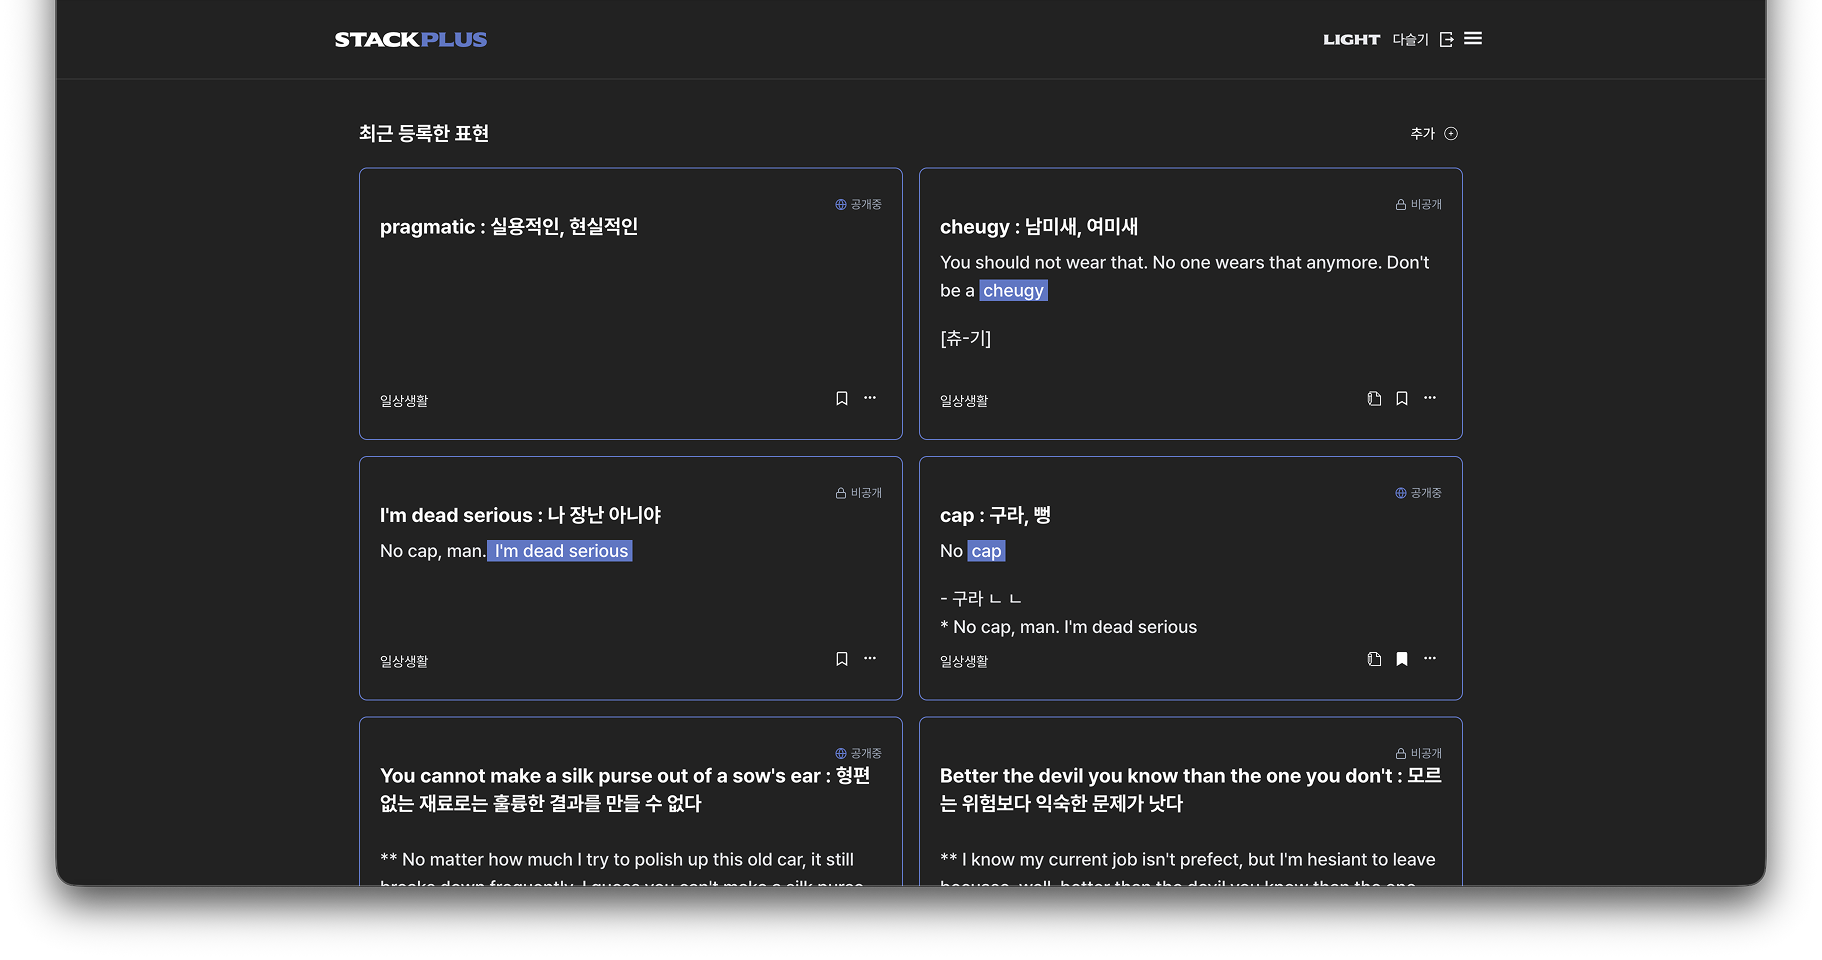
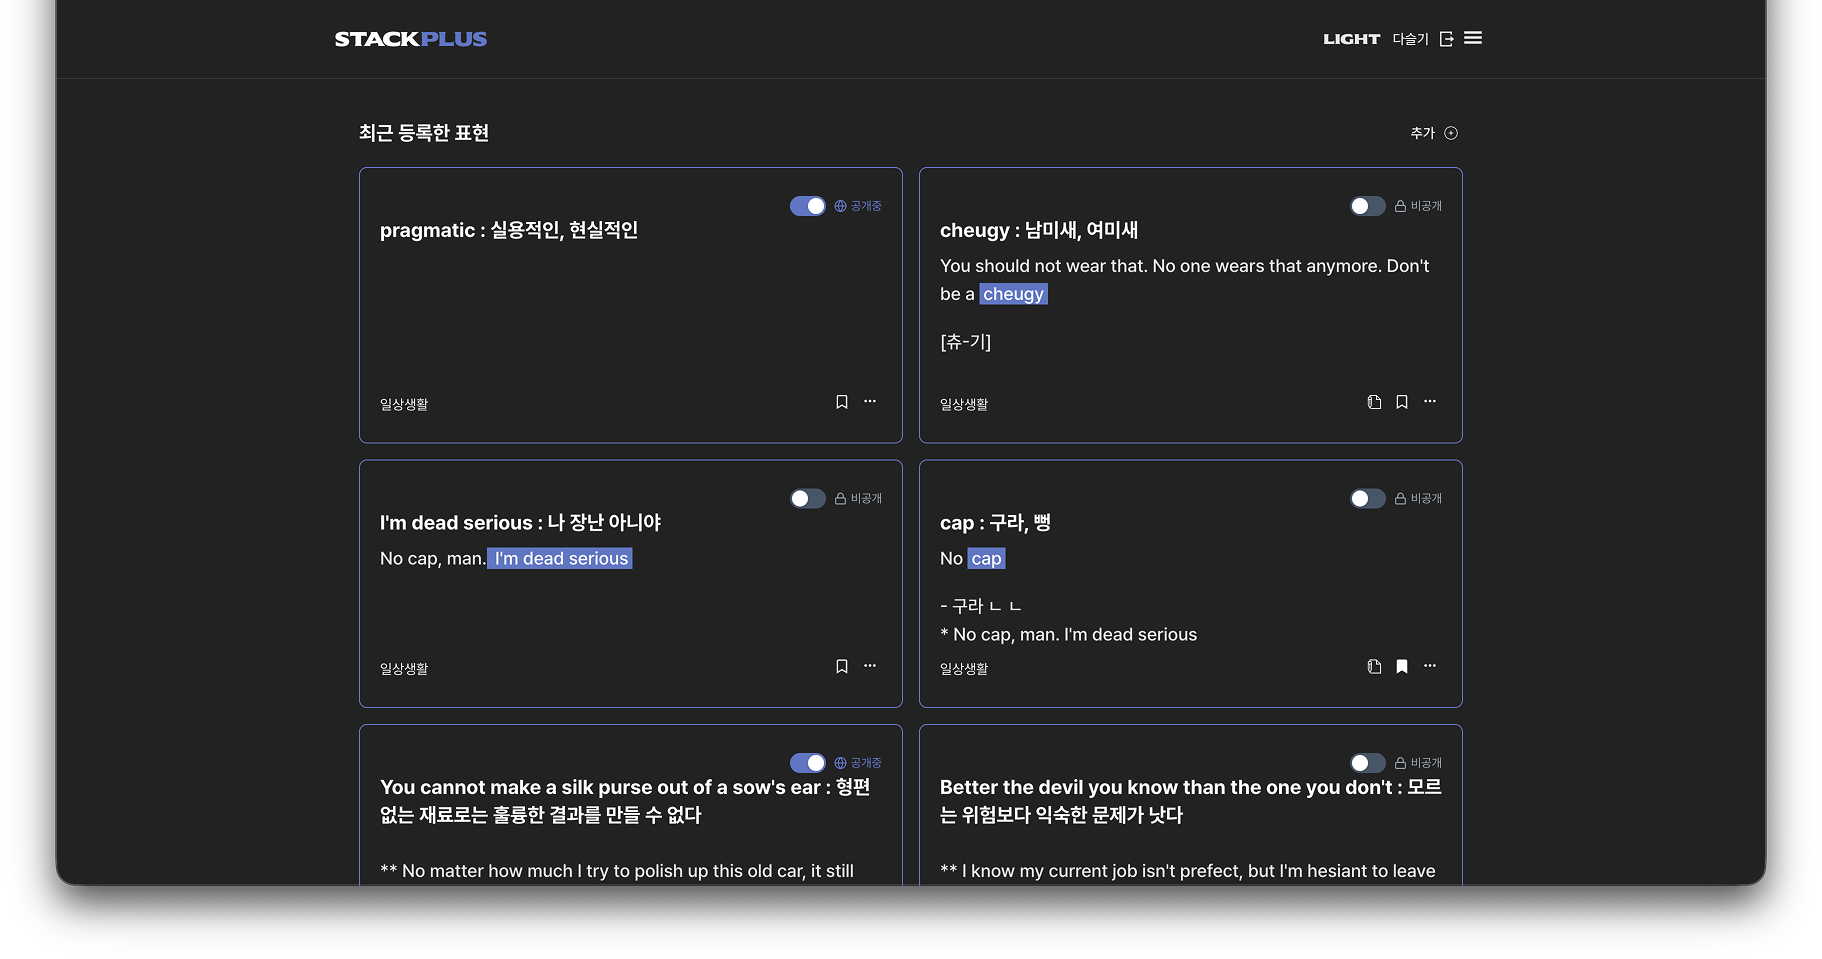
chore: UI변경에 따른 readme 이미지 수정

diff --git a/README.md b/README.md
@@ -9,7 +9,7 @@
 
 ## 미리보기
 
-### 랜딩페이지 / 로그인
+### 랜딩페이지 / 로그인 / 단어공유
 
 ![랜딩페이지](./public/readme/landing.png?v=2)
 